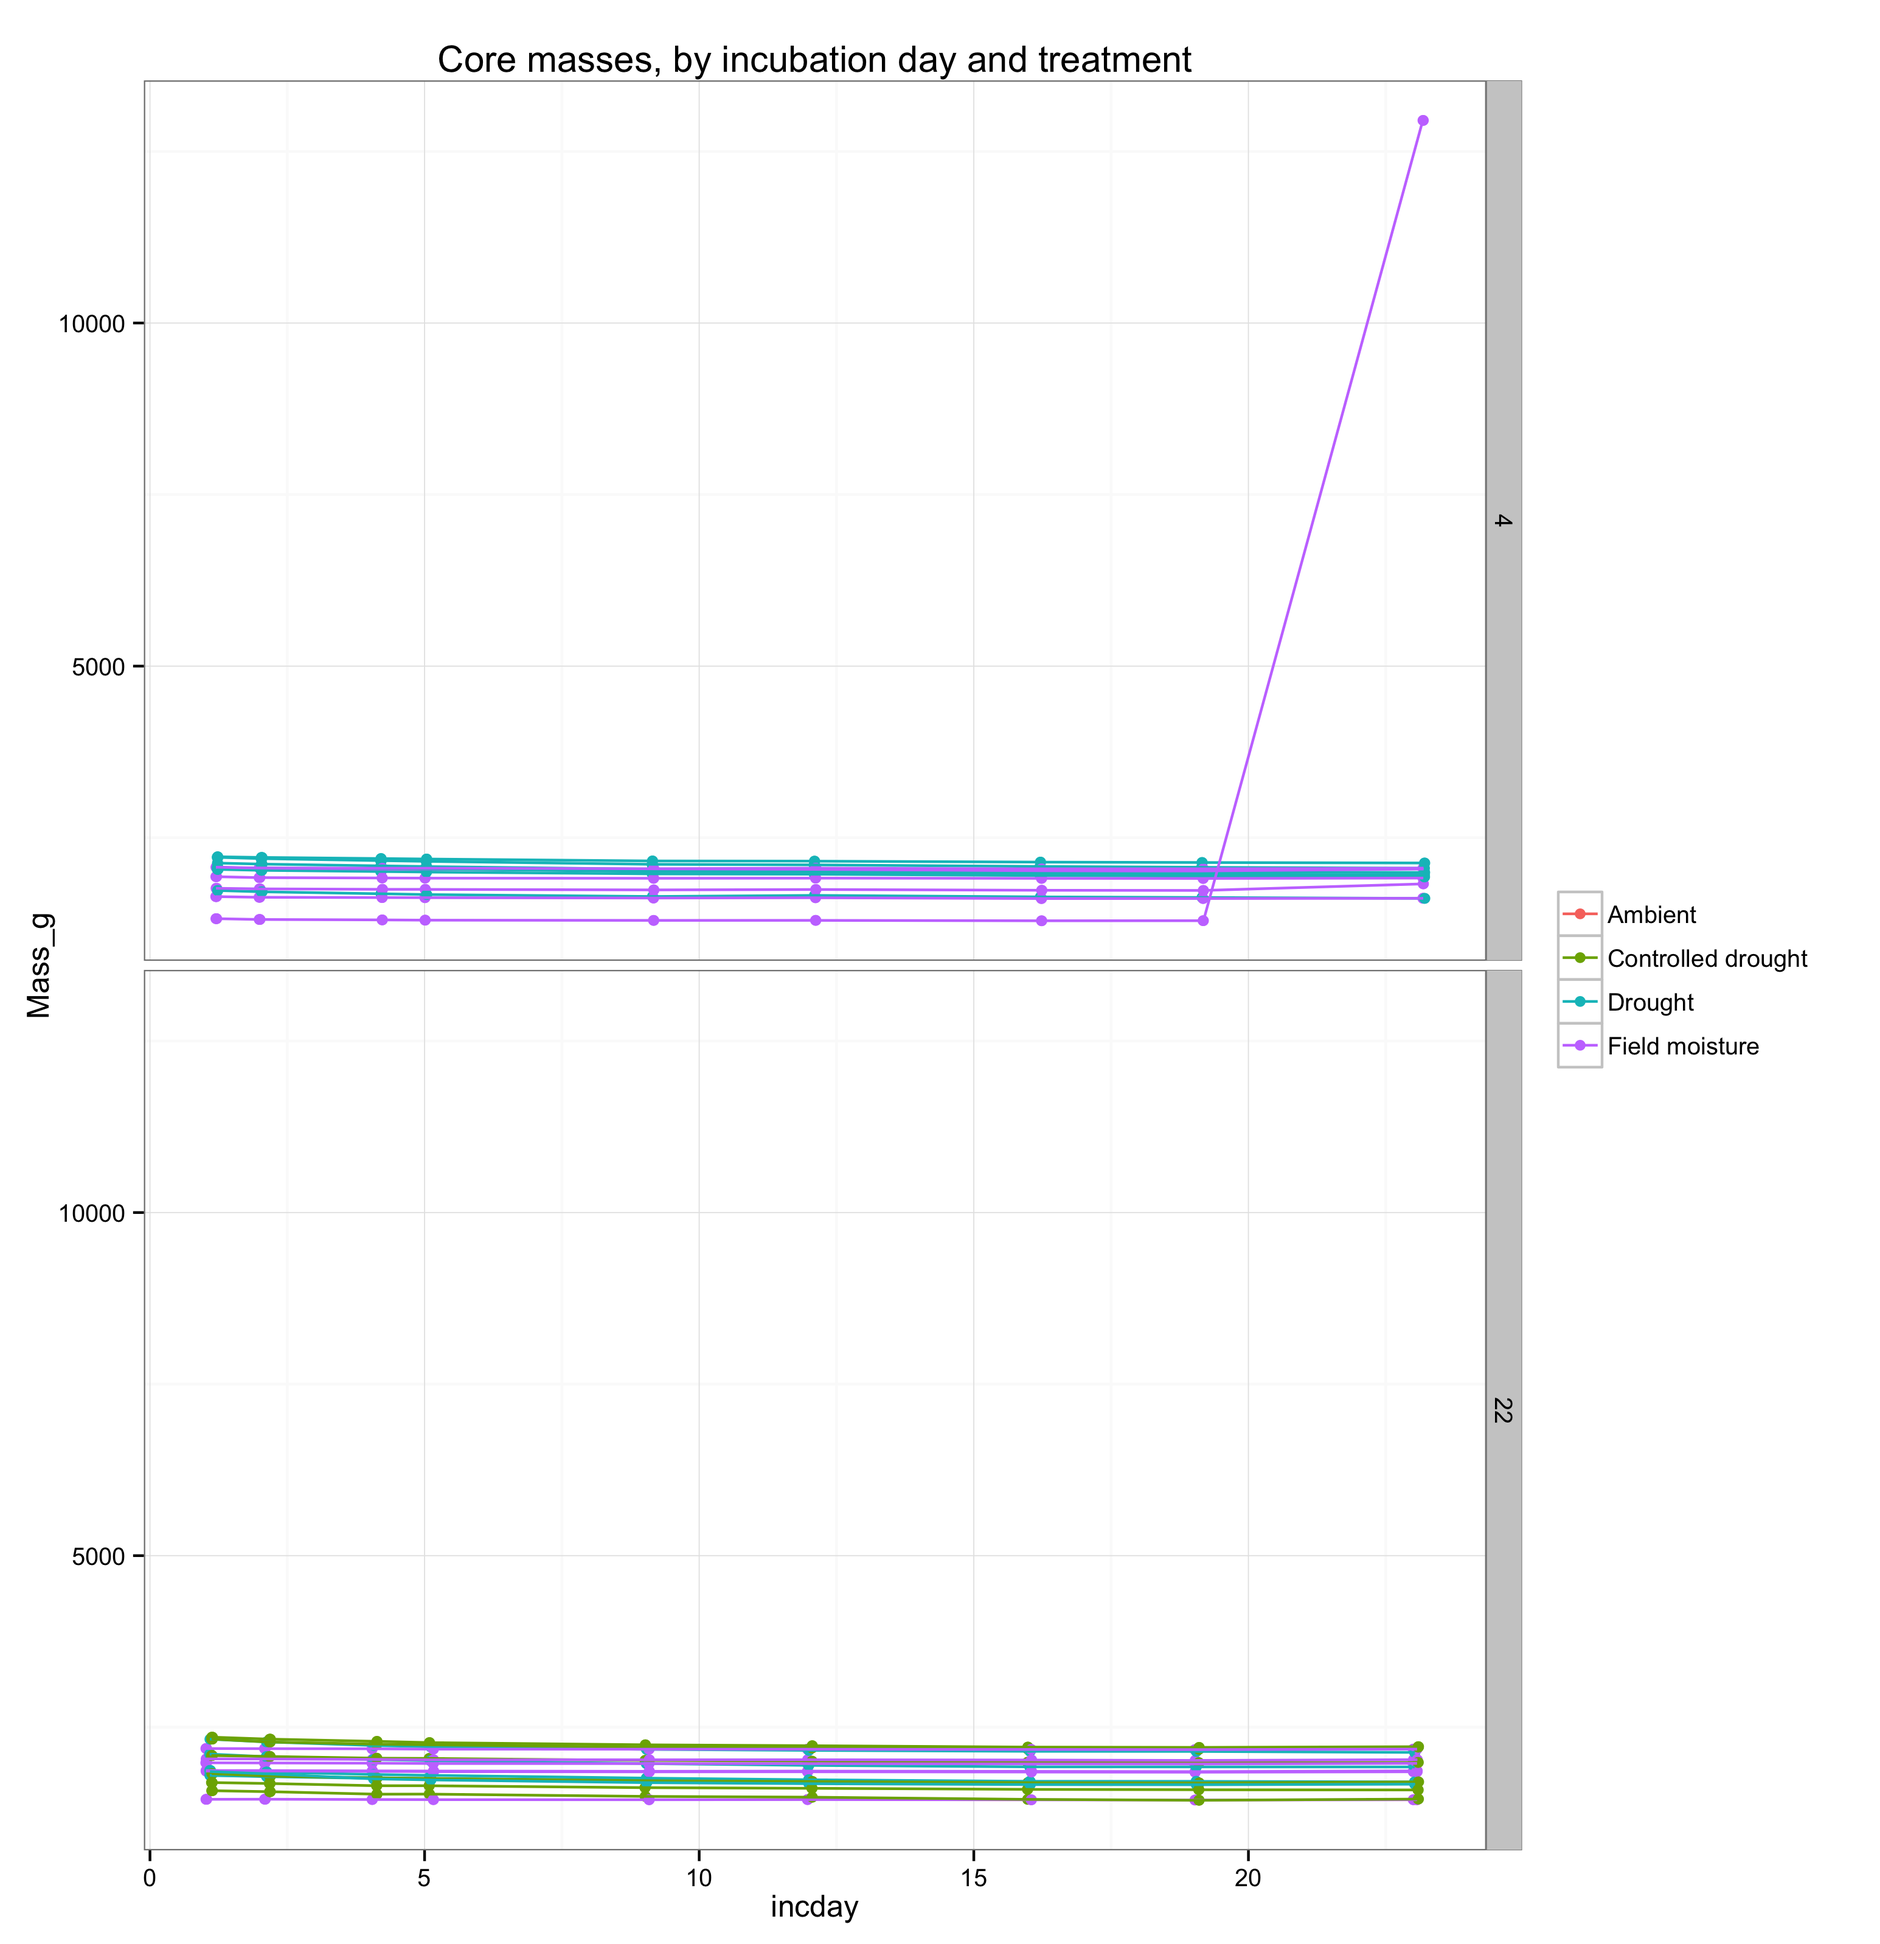
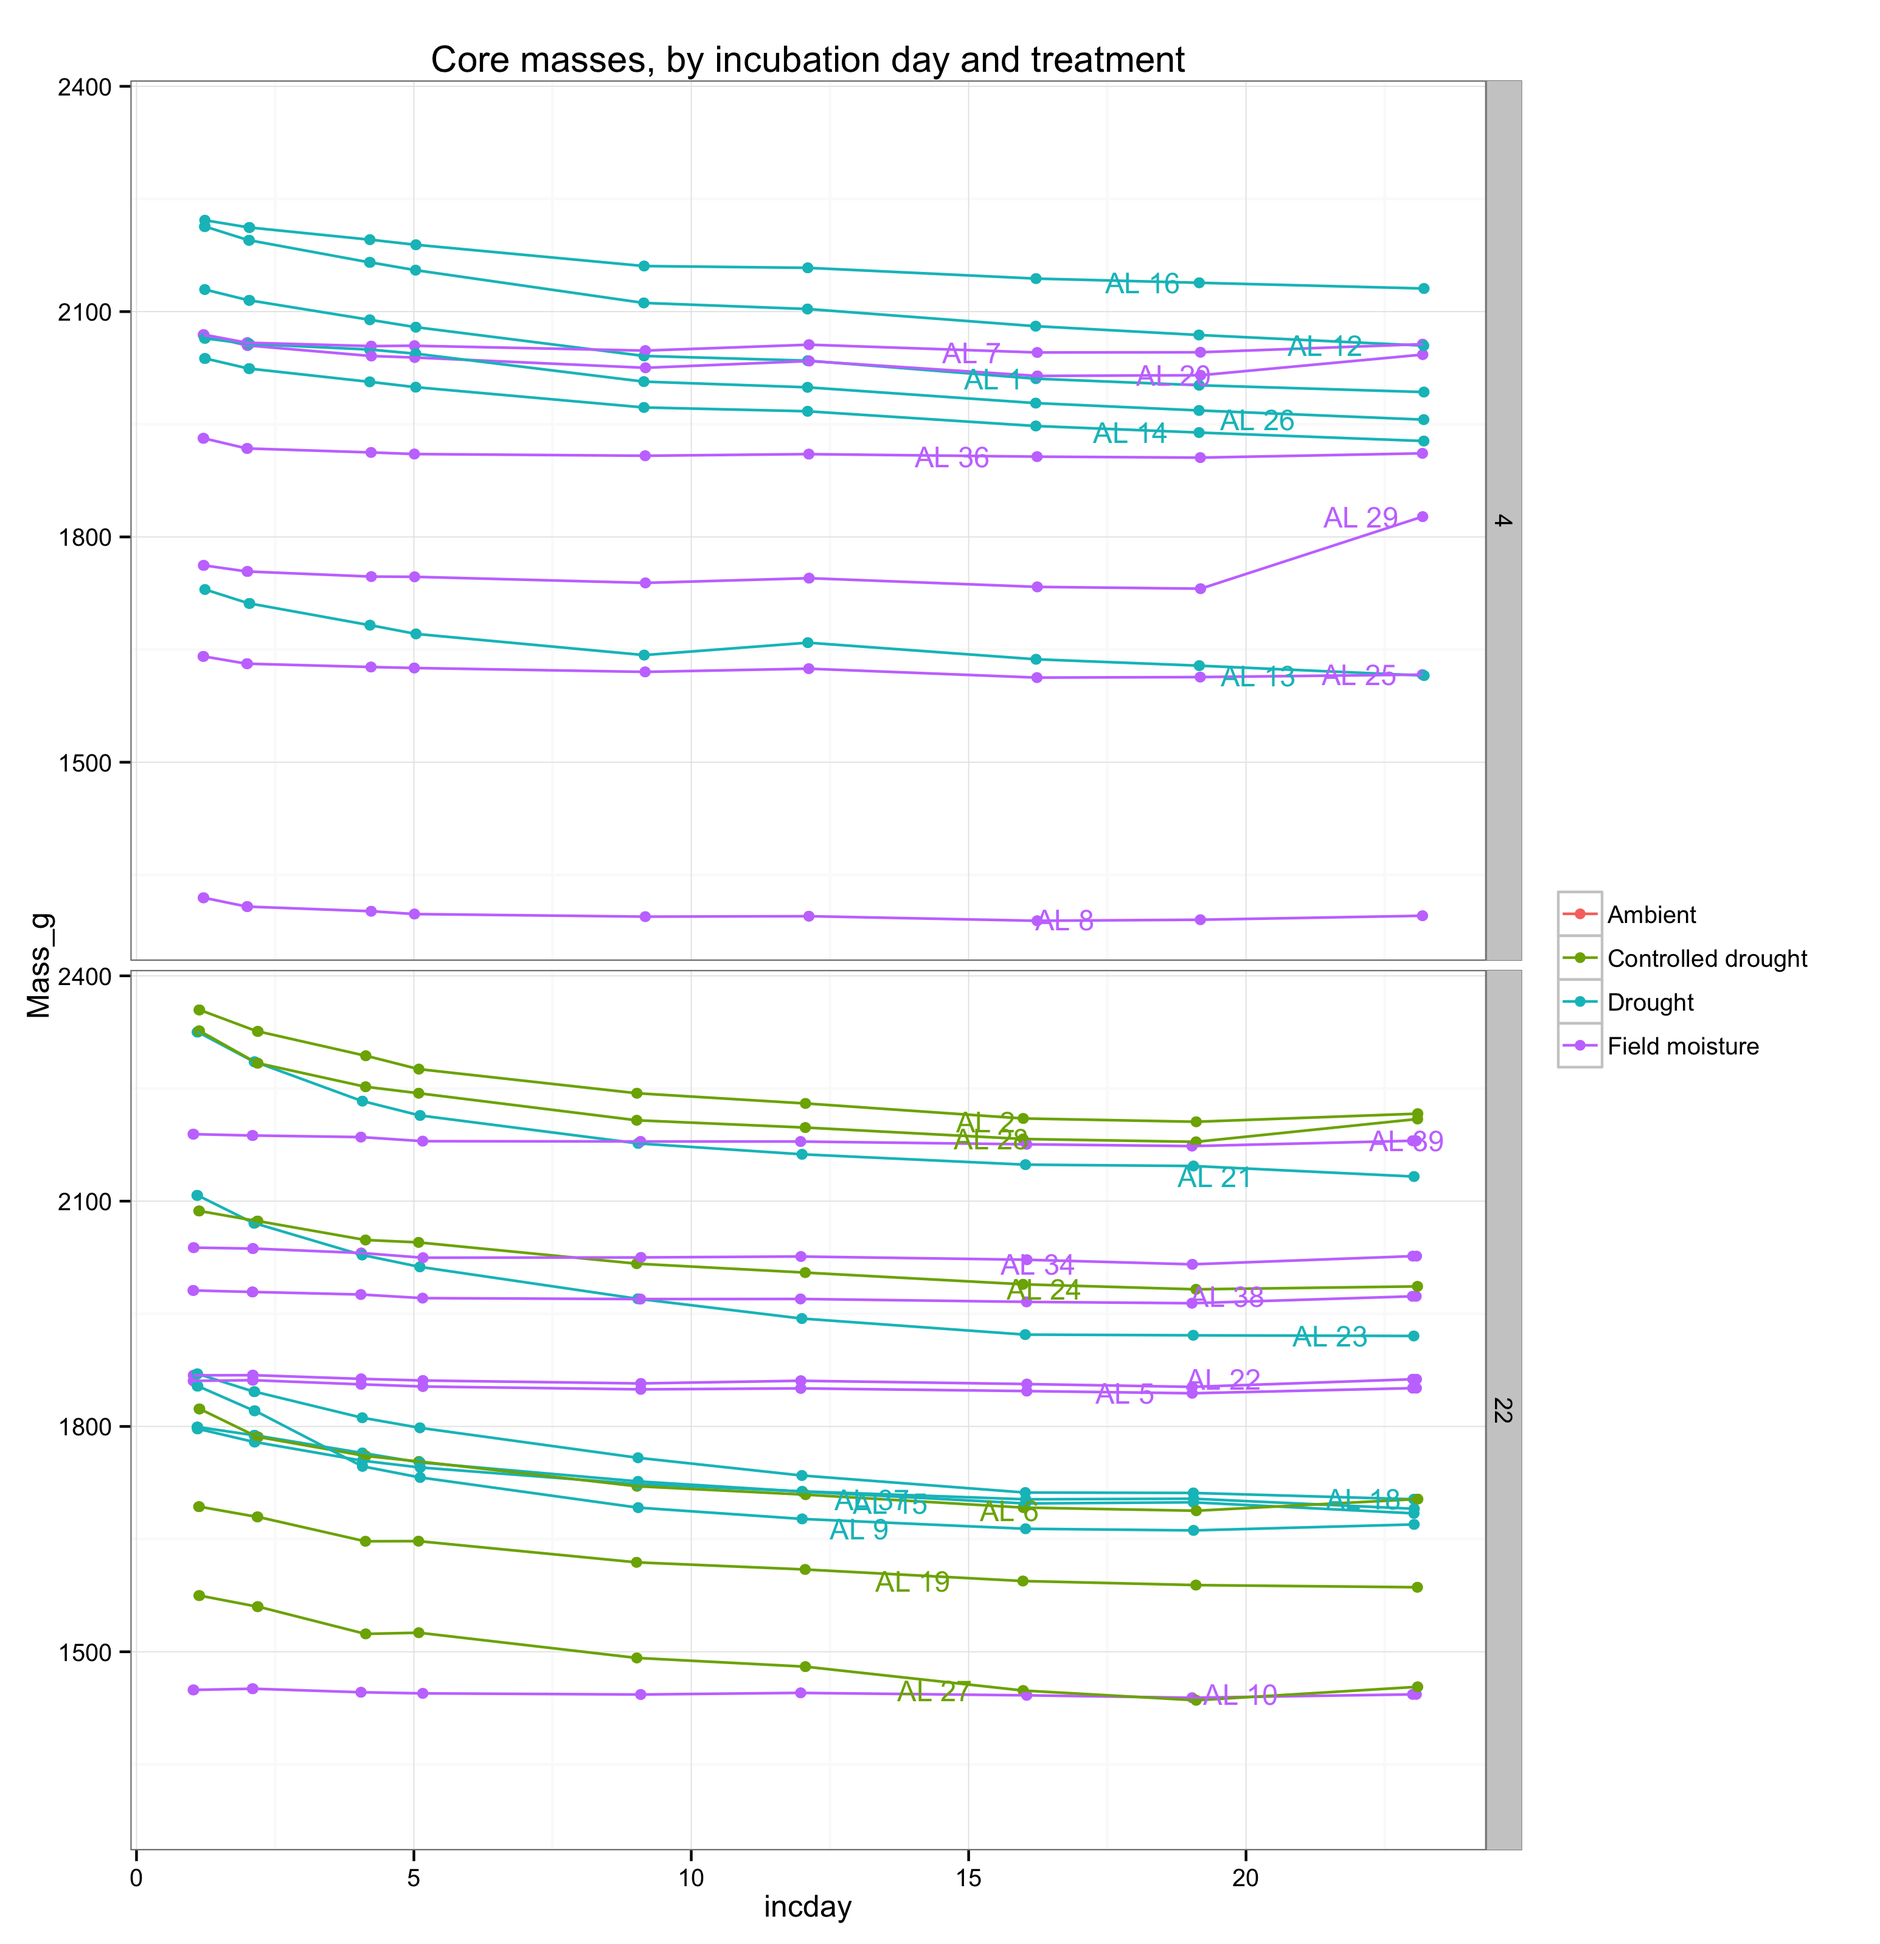
Corrected faulty mass value for AL 8 on 22 September, and added core labels to mass graph.

diff --git a/README.md b/README.md
@@ -7,7 +7,7 @@ This work is funded by DOE's [Terrestrial Ecosystem Science Program](http://tes.
 
 Latest data: 2015-09-22 (incubation day 23)
 
-Script run: 2015-09-23 09:26:27
+Script run: 2015-09-23 11:33:14
 
 ### Missing/problematic data
 
